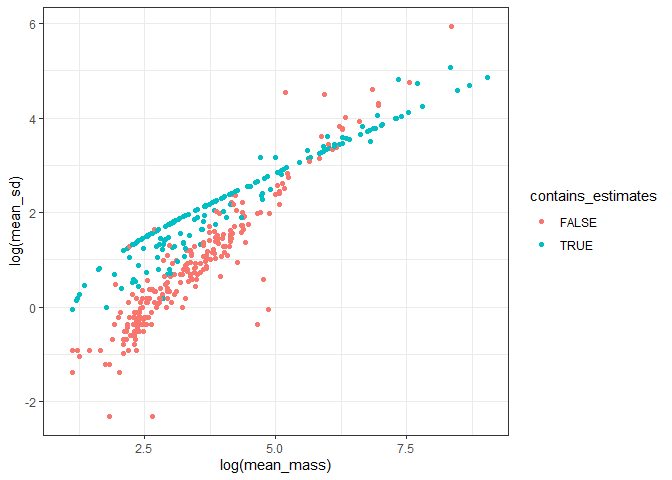
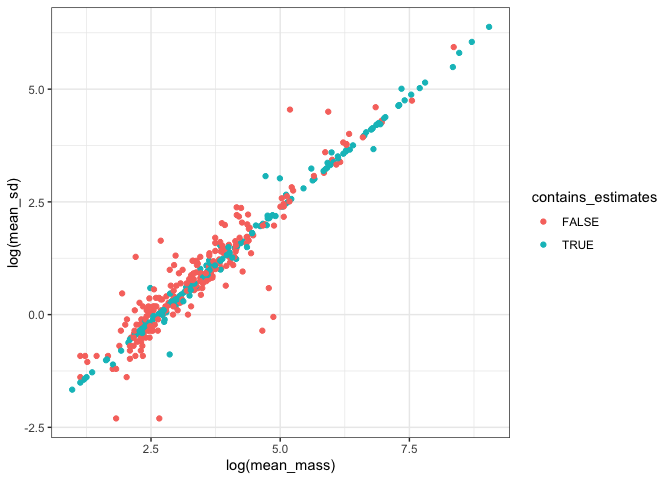
some cleanup

diff --git a/analysis/reports/extrapolate_sp_data.md b/analysis/reports/extrapolate_sp_data.md
@@ -80,8 +80,6 @@ for(i in 1:nrow(sp_clean)) {
 }
 ```
 
-    ## Warning in sqrt(pars$intercept + (pars$slope * sp_mean)): NaNs produced
-
 ``` r
 sp_means <- sp_clean %>%
   group_by(species_id, id, genus, species) %>%
@@ -89,14 +87,15 @@ sp_means <- sp_clean %>%
             mean_sd = mean(sd),
             contains_estimates = any(estimated_sd)) %>%
   ungroup()
+```
 
+    ## `summarise()` has grouped output by 'species_id', 'id', 'genus'. You can override using the `.groups` argument.
 
+``` r
 ggplot(sp_means, aes(x = log(mean_mass), y = log(mean_sd), color = contains_estimates)) +
   geom_point() +
   theme_bw()
 ```
-
-    ## Warning: Removed 1 rows containing missing values (geom_point).
 
 ![](extrapolate_sp_data_files/figure-gfm/take%20mean%20by%20species%20ID-1.png)<!-- -->
 

diff --git a/analysis/reports/add_energy.md b/analysis/reports/add_energy.md
@@ -1,0 +1,13 @@
+Size data analysis
+================
+
+Following Fristoe (2015, GEB
+<https://onlinelibrary.wiley.com/doi/epdf/10.1111/geb.12262>):
+
+\(B = cM^b\)
+
+where M is body mass
+
+“I use values provided from empirical studies for passerine birds under
+natural condi- tions of c = 10.5… and b = 0.713 (Nagy, 2005; McNab,
+2009).”
